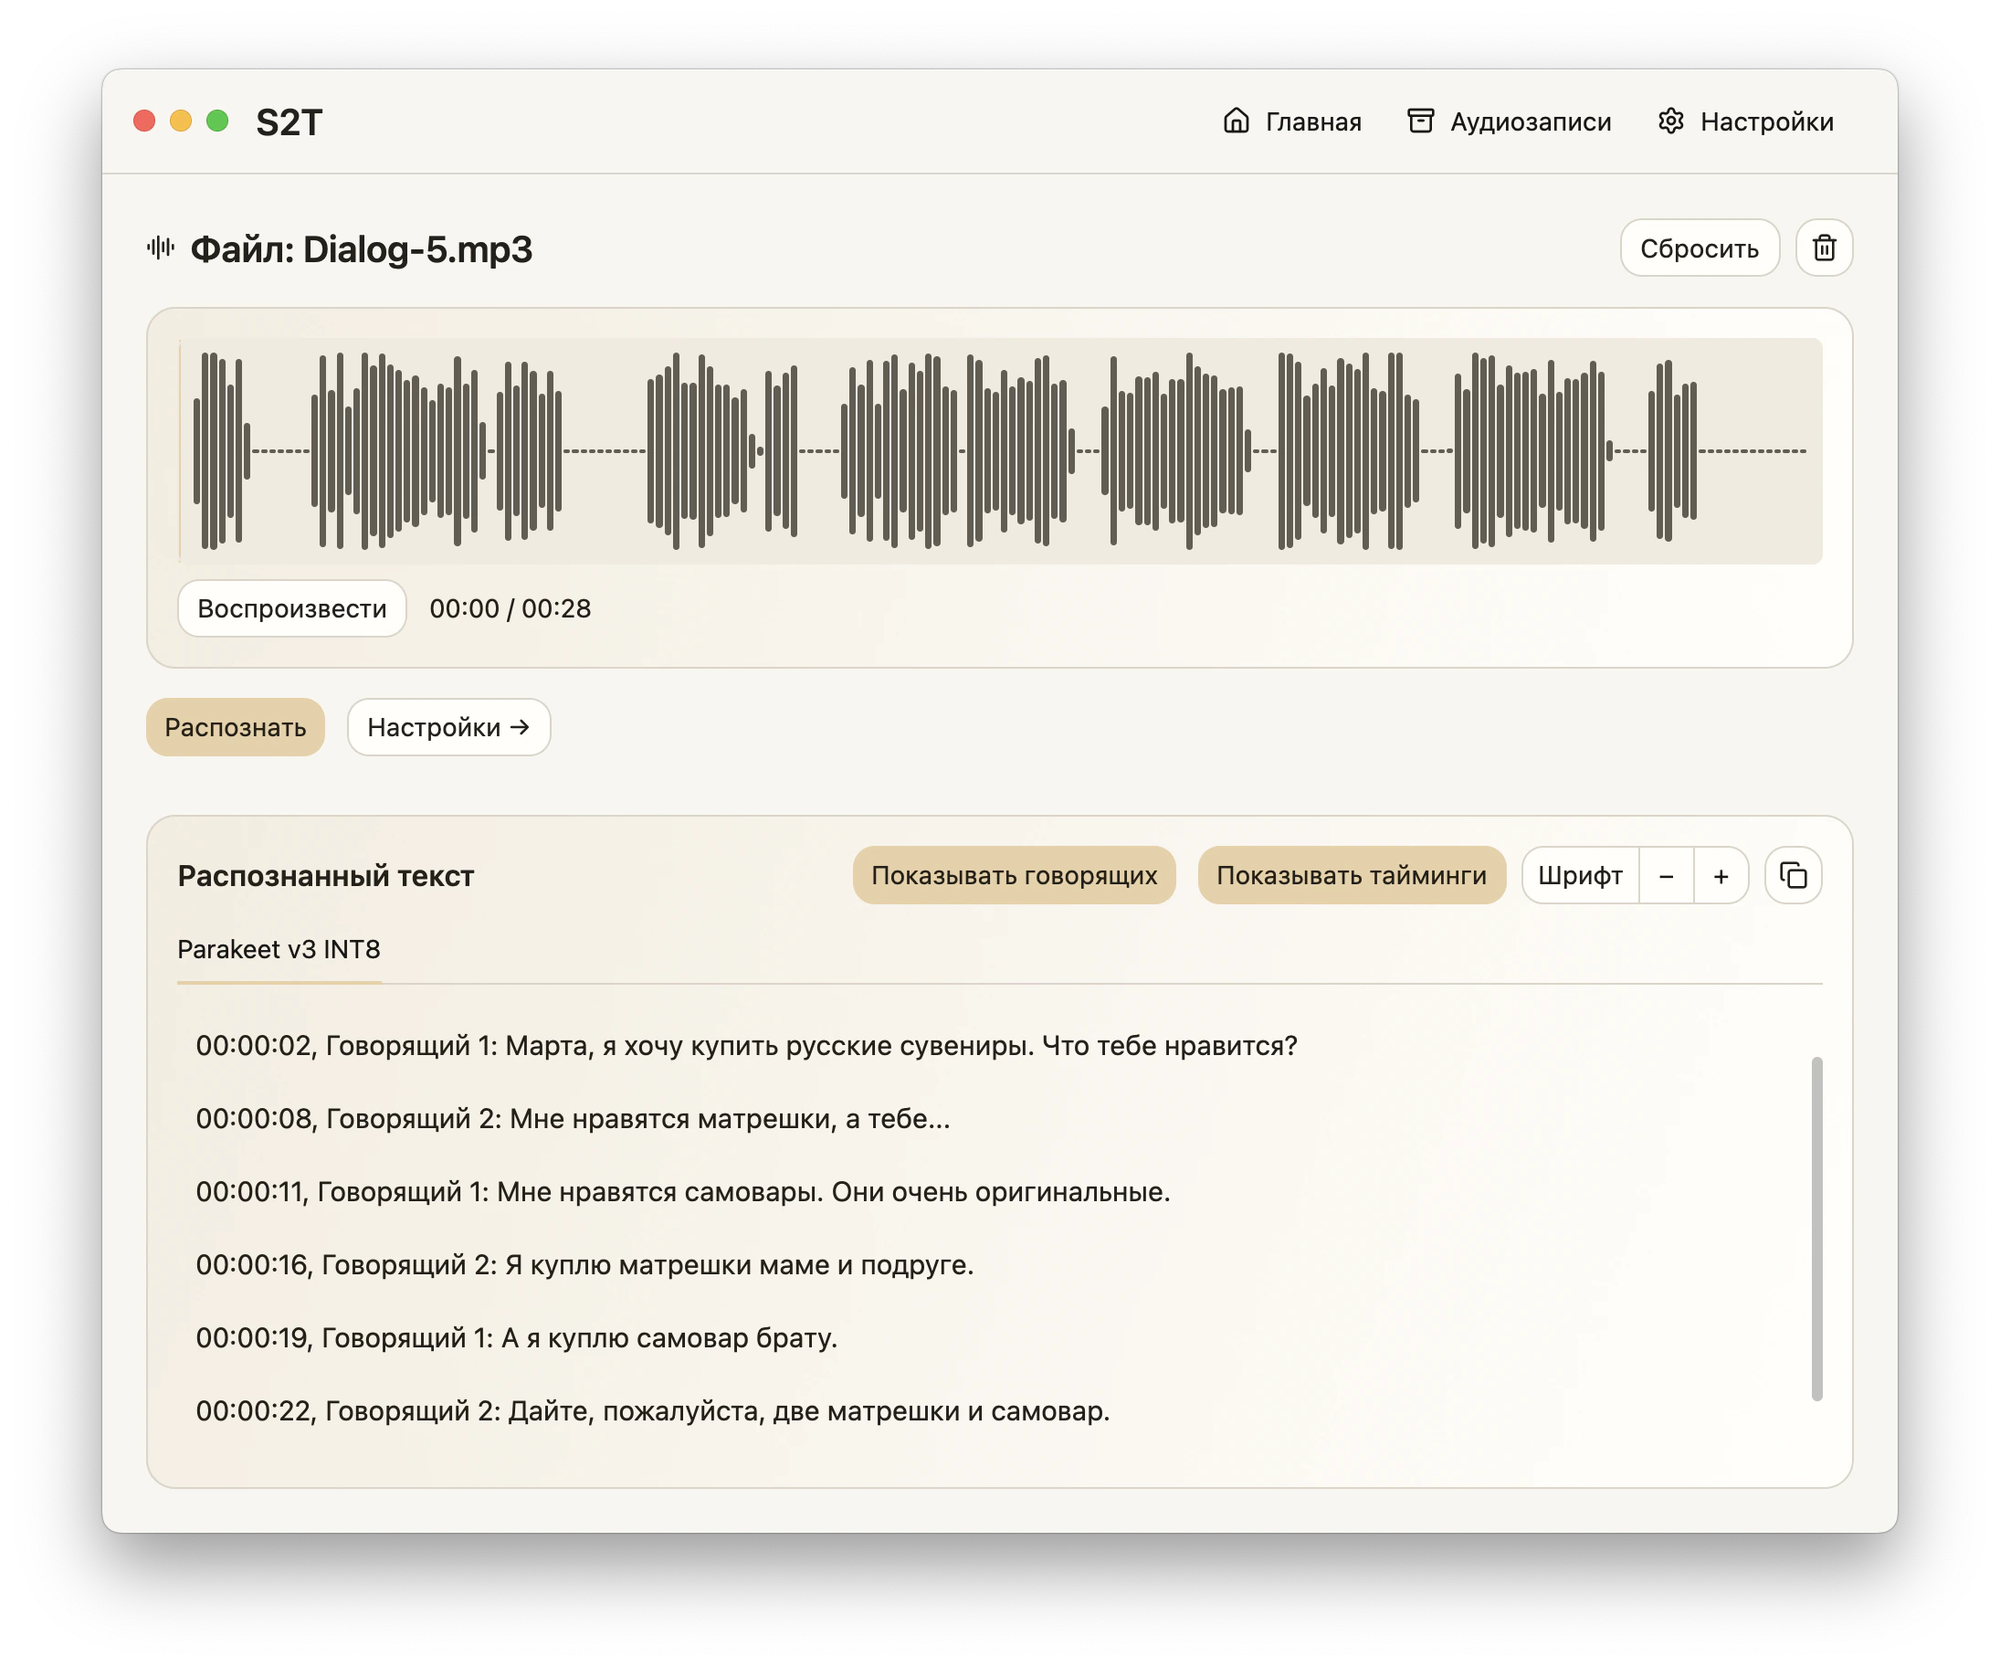
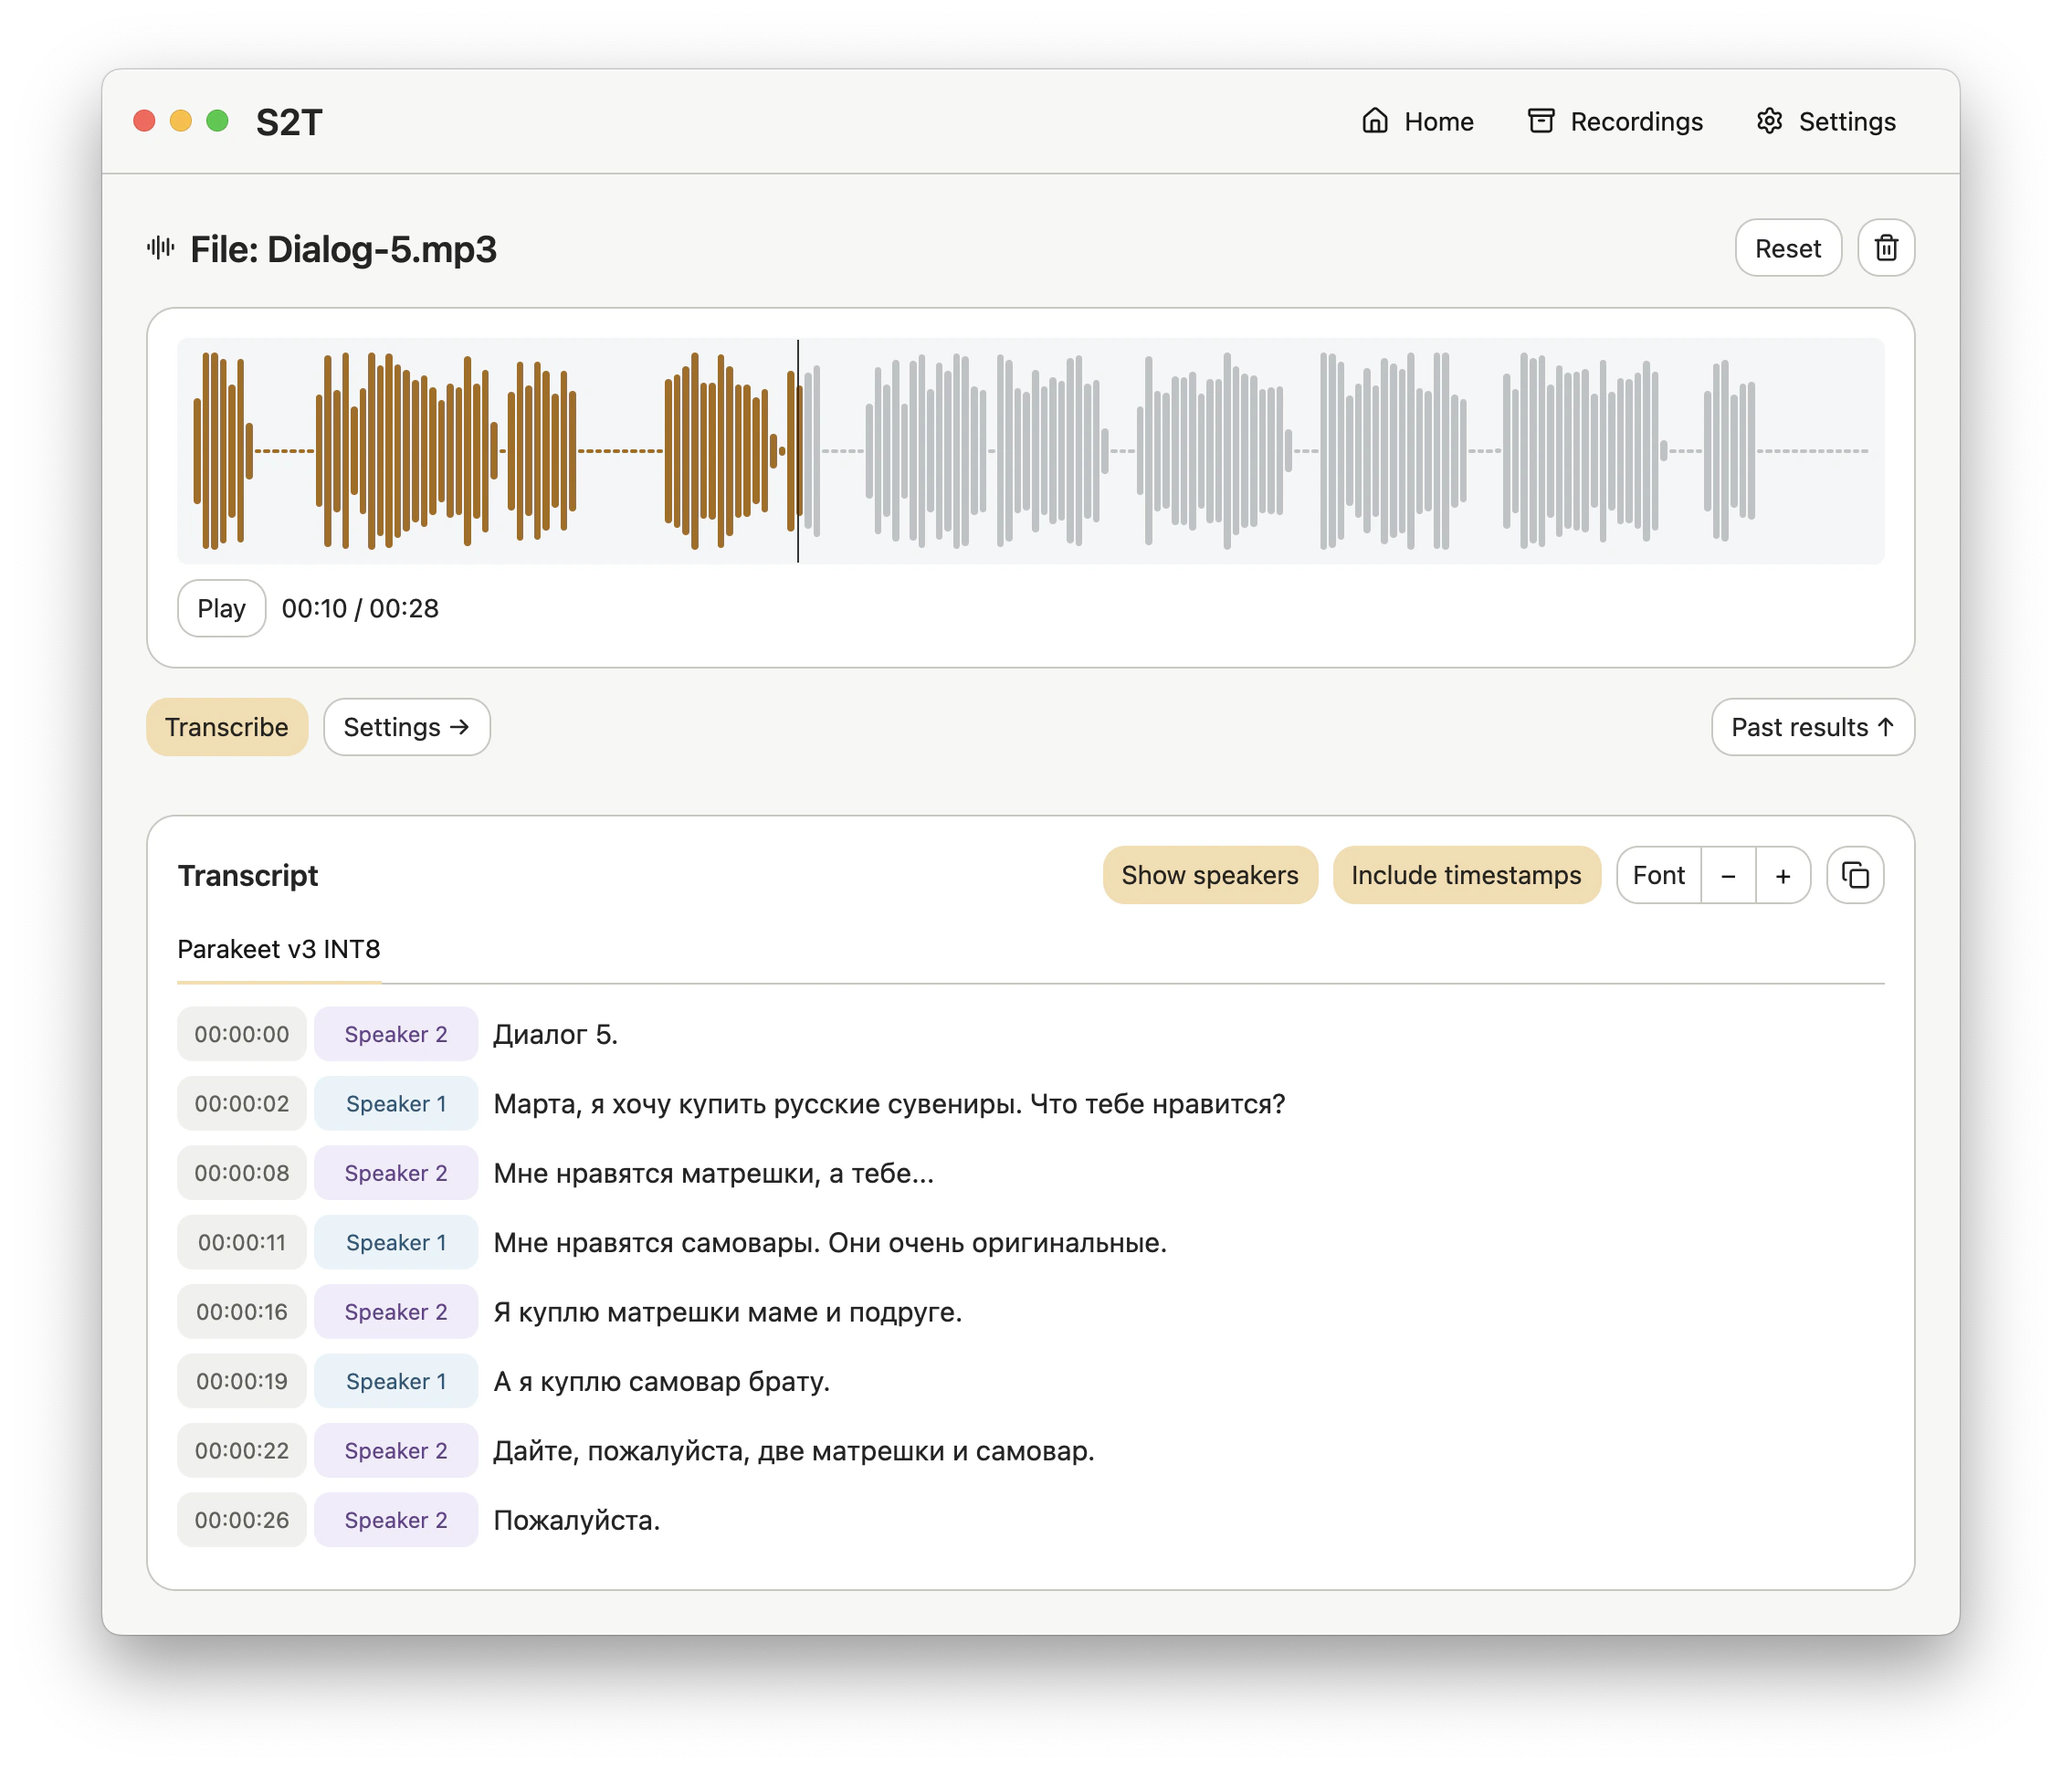
Release S2T 0.5.1 and refresh app screenshot

diff --git a/docs/index.html b/docs/index.html
@@ -38,10 +38,10 @@
         <p class="hero-promise">Always free. Always self-hosted.</p>
         <div class="hero-download">
           <a class="button primary" id="primary-download" href="#downloads"><span>Download</span><span aria-hidden="true">↓</span></a>
-          <small data-release-summary>Latest version v0.5.0</small>
+          <small data-release-summary>Latest version v0.5.1</small>
         </div>
       </div>
-      <img class="hero-screenshot" src="./image.webp" width="2190" height="1826" alt="S2T desktop app interface">
+      <img class="hero-screenshot" src="./image.webp" width="2258" height="1938" alt="S2T desktop app interface">
     </section>
     <section class="wrap section" id="features" aria-labelledby="features-title">
       <h2 id="features-title">S2T features</h2>
@@ -72,7 +72,7 @@
     <section class="downloads wrap section grid" id="downloads" aria-labelledby="download-title">
       <div><h2 id="download-title">Download S2T</h2><p>Choose a build for your computer. You can download models separately in the app settings.</p></div>
       <div class="download-card">
-        <header><h3>Download S2T</h3><small data-app-version>v0.5.0</small></header>
+        <header><h3>Download S2T</h3><small data-app-version>v0.5.1</small></header>
         <div class="row">
           <span>macOS<small>Apple Silicon · .zip</small></span>
           <a data-platform="macos-arm64" class="button release-download" href="https://github.com/ufocoder/speech-to-text/releases"><span>Releases</span><span class="download-arrow" aria-hidden="true">↗</span></a>
